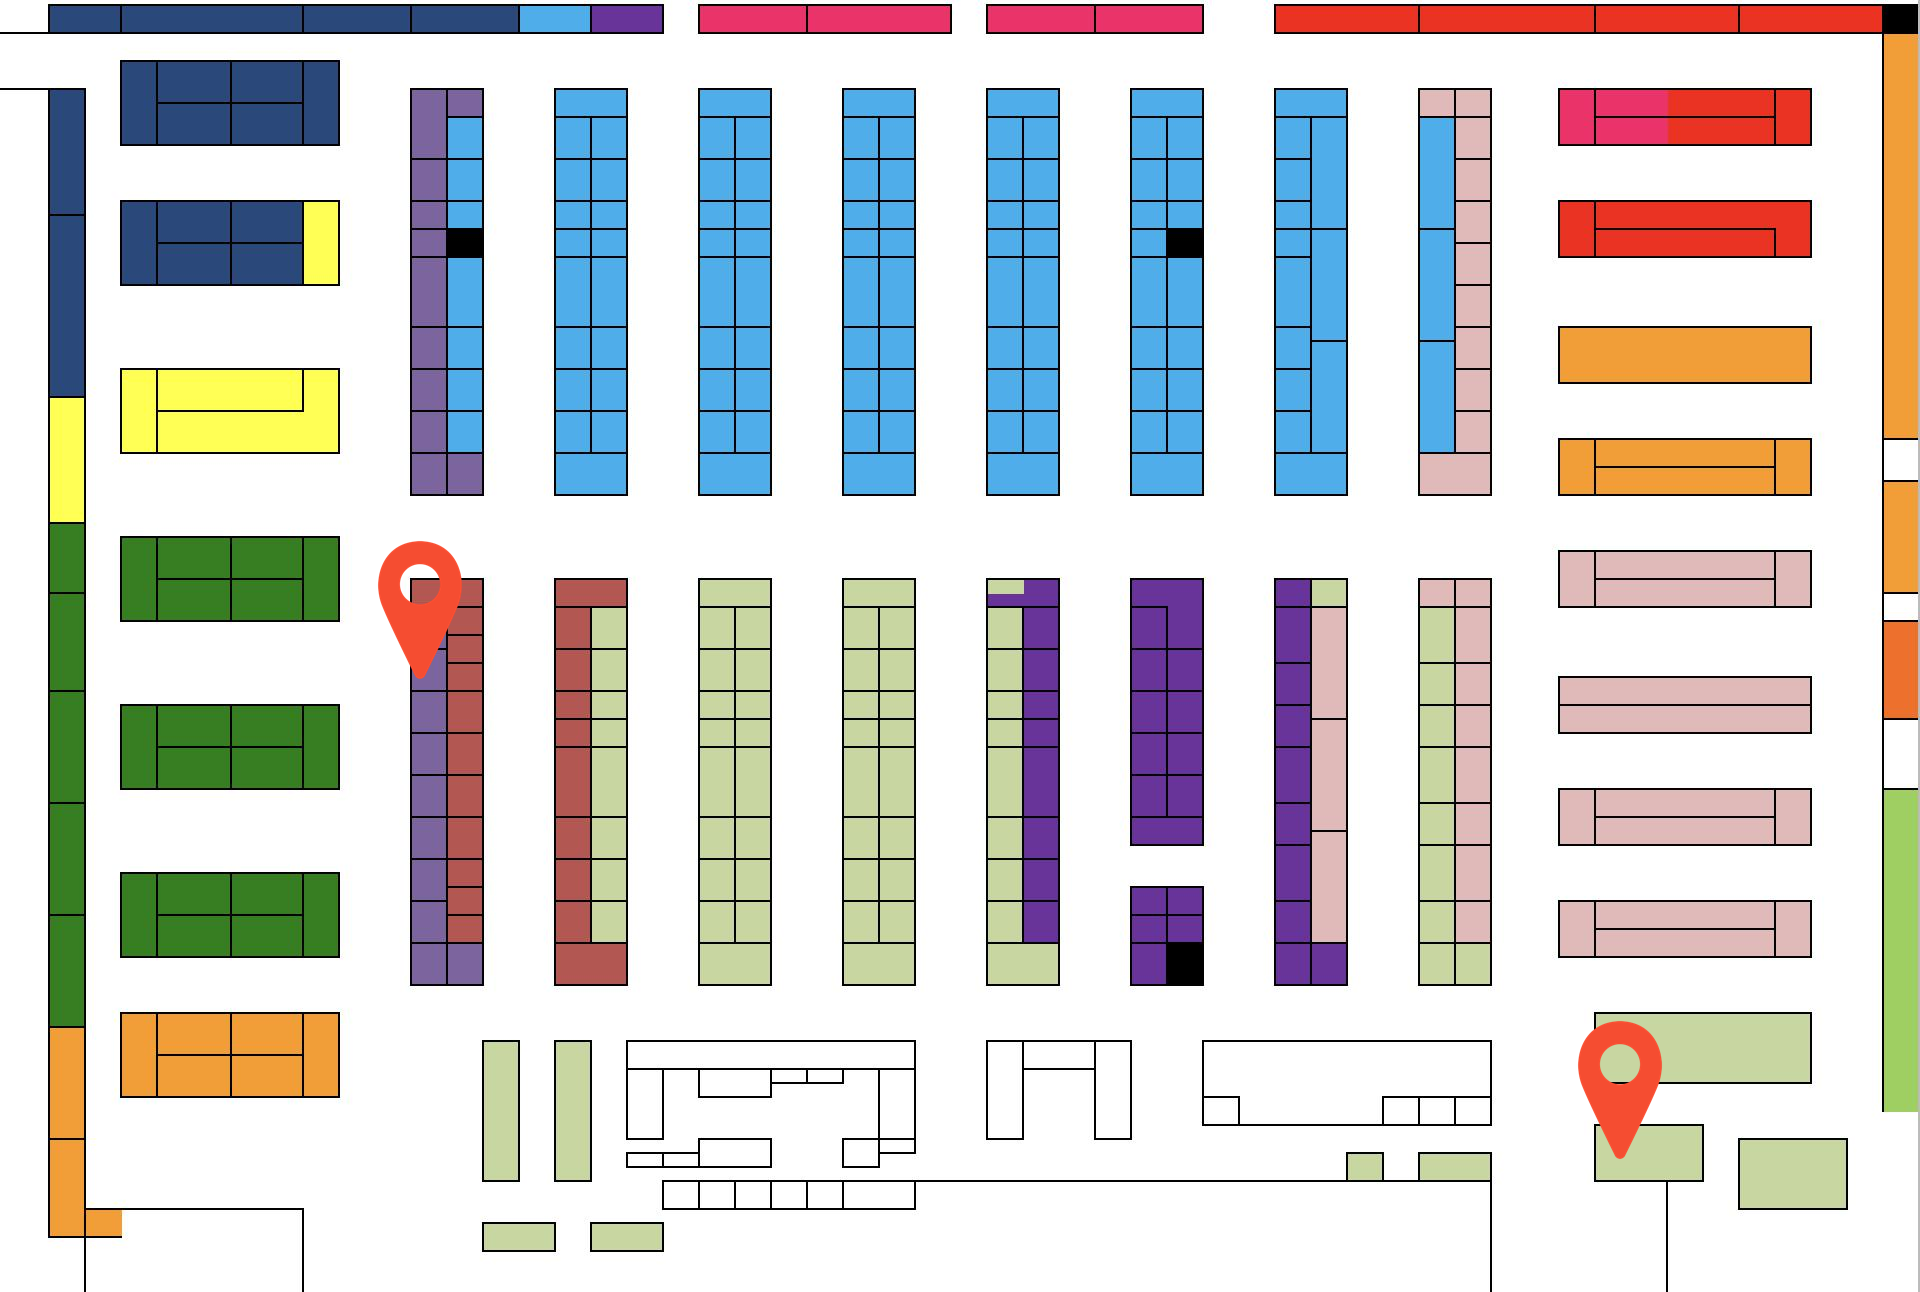
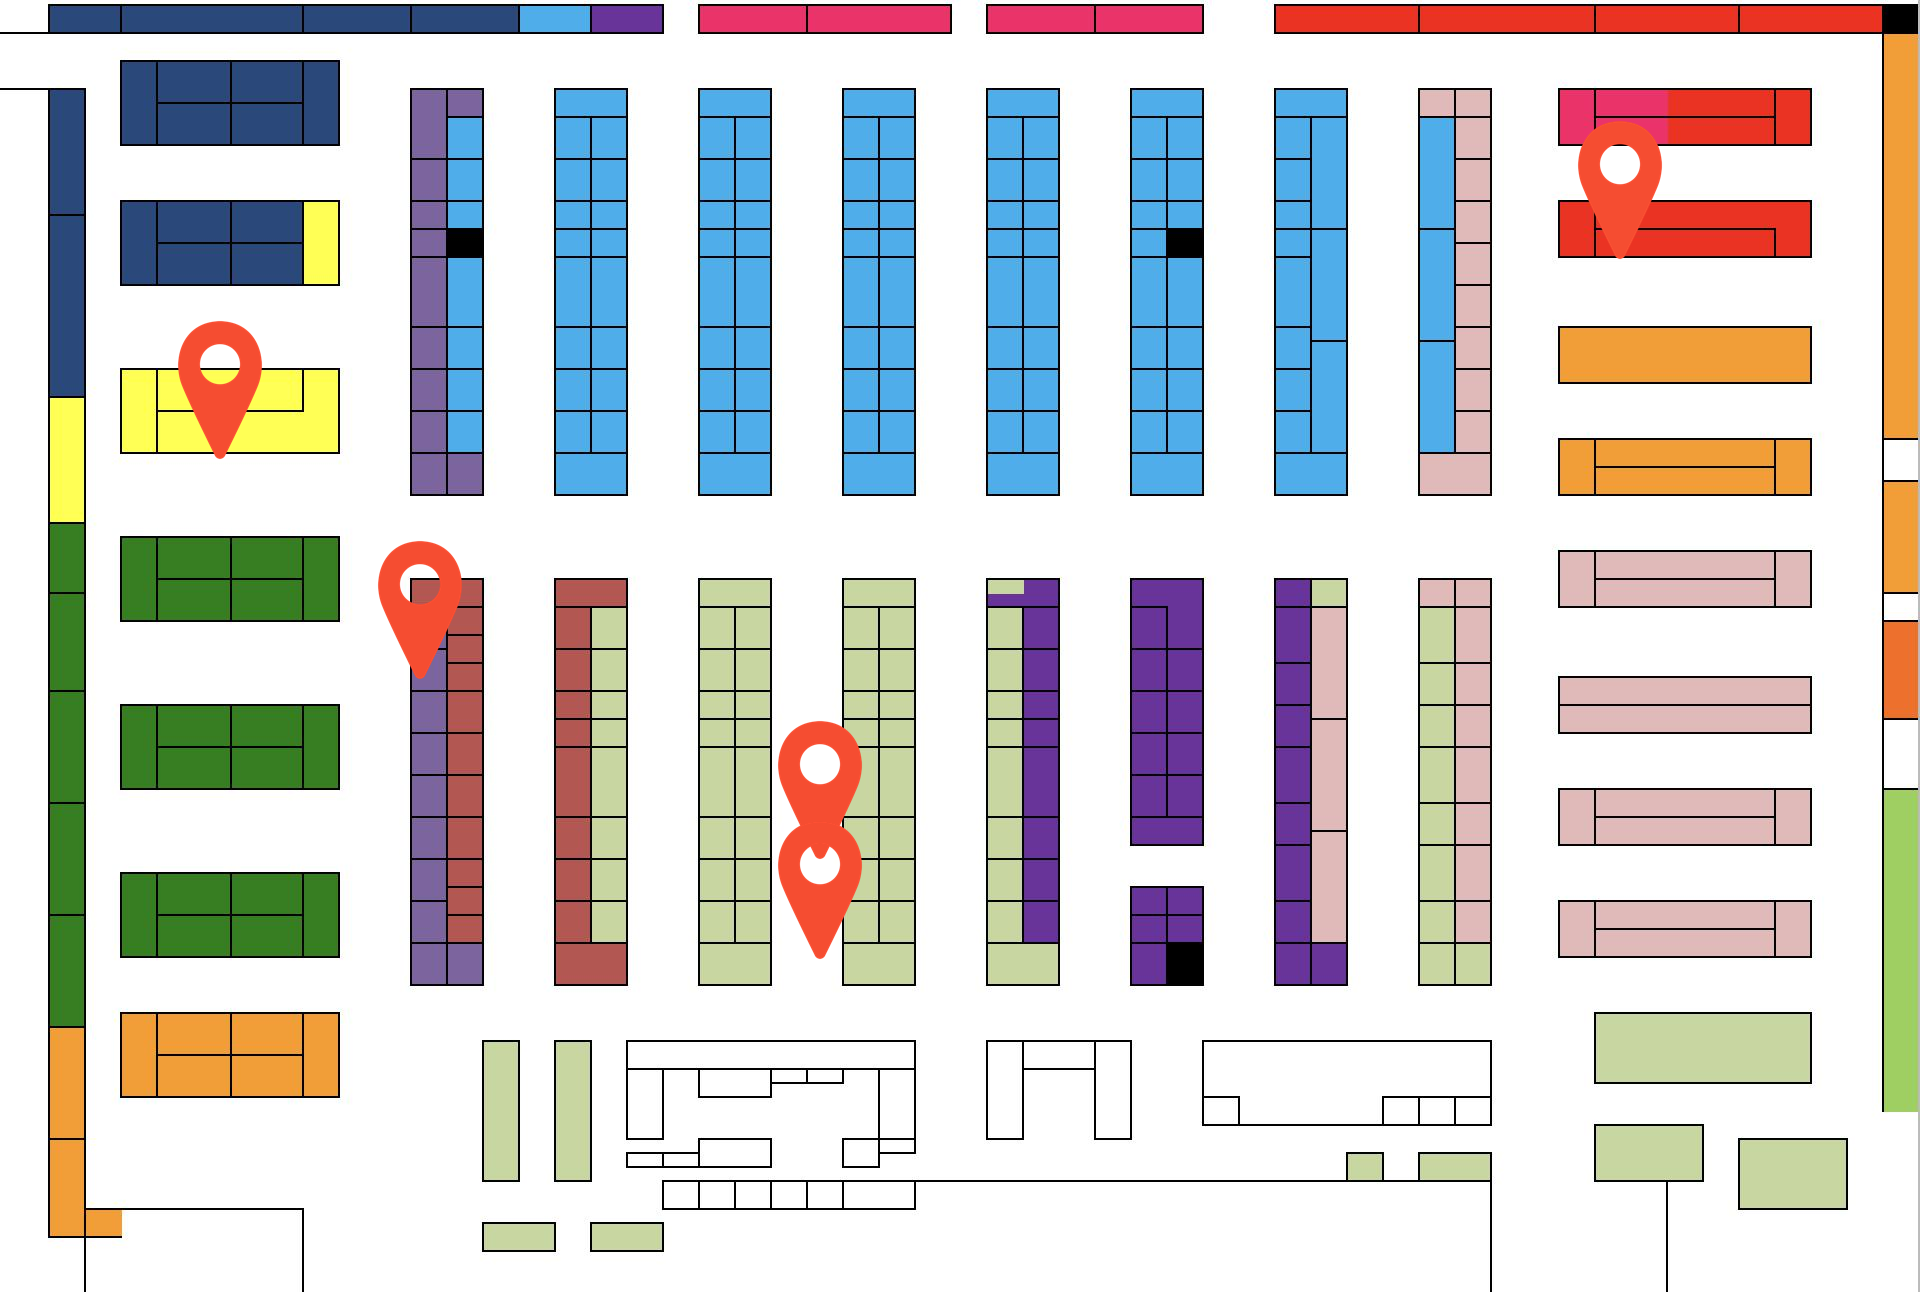
csv file読み込む

diff --git a/marketmap_back/main.py b/marketmap_back/main.py
@@ -2,6 +2,8 @@ from fastapi import FastAPI
 from fastapi.responses import FileResponse
 from fastapi.middleware.cors import CORSMiddleware
 from PIL import Image
+import pandas as pd
+
 
 app = FastAPI()
 
@@ -32,16 +34,15 @@ def map():
     scale = 0.3
     logo_resized = logo.resize((int(logo_w * scale), int(logo_h * scale)))
 
-    data = [["醤油", "調味料", 300, 520],
-            ["牛肉", "肉", 1500, 1000],
-            ["マヨネーズ", "調味料", 2300, 1300], #商品名,カテゴリ名,x座標,y座標
-            ["鮭", "魚", 2000, 700]]
+    csv_file_path = 'sample.csv'
+    df = pd.read_csv(csv_file_path, header = None) #pandasを使ってCSVファイルを読み込み、DataFrameオブジェクトとして記憶する
+    data = df.values #DataFrameを配列に転換する
 
-    n = 4 #表示件数
+    n = len(data) #表示件数
 
     for i in range(n):
-        x = data[i][2]
-        y = data[i][3]
+        x = data[i][3]
+        y = data[i][4]
         base.paste(logo_resized, (x, y), logo_resized)
 
     base.save(out_path)
